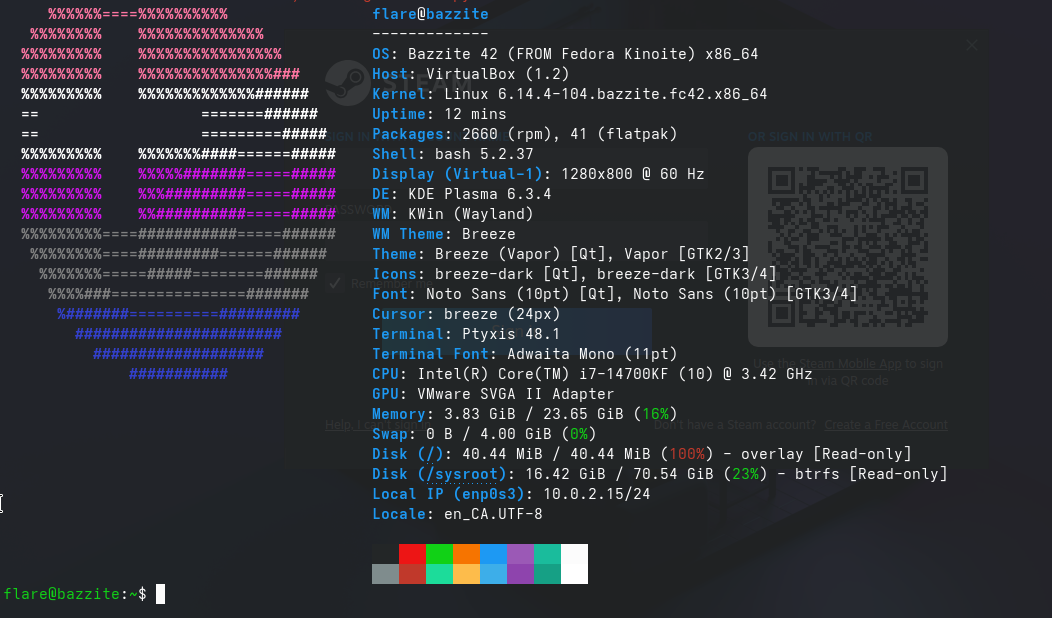
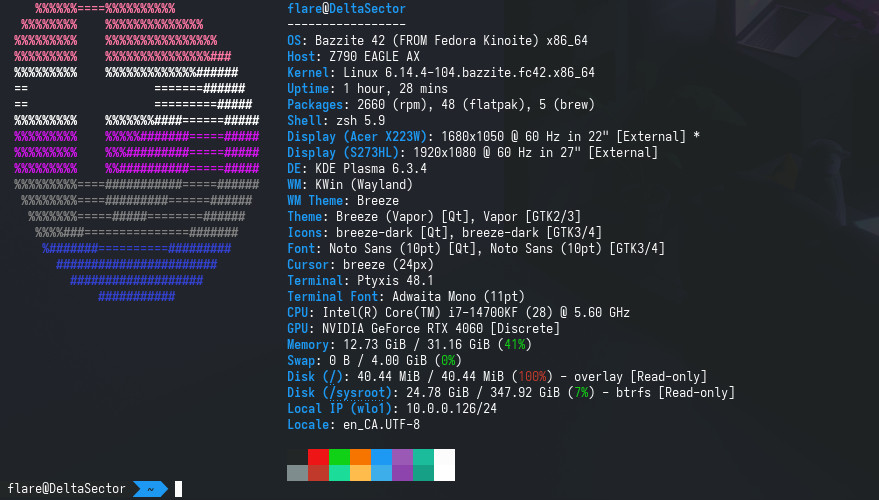
wip

Changed region(s): [[0.0, 0.0, 0.9215, 0.96], [0.0, 0.93, 0.215, 1.0]]

diff --git a/partials/comments.html b/partials/comments.html
@@ -1,0 +1,55 @@
+{% if page.meta.comments %}
+  <h2 id="__comments">{{ lang.t("meta.comments") }}</h2>
+  <!-- Insert generated snippet here -->
+<script src="https://giscus.app/client.js"
+        data-repo="flare-proto/flare-proto.github.io"
+        data-repo-id="R_kgDOPIj9dw"
+        data-category="Announcements"
+        data-category-id="DIC_kwDOPIj9d84Csqgm"
+        data-mapping="pathname"
+        data-strict="0"
+        data-reactions-enabled="1"
+        data-emit-metadata="0"
+        data-input-position="top"
+        data-theme="preferred_color_scheme"
+        data-lang="en"
+        data-loading="lazy"
+        crossorigin="anonymous"
+        async>
+</script>
+  <!-- Synchronize Giscus theme with palette -->
+  <script>
+    var giscus = document.querySelector("script[src*=giscus]")
+
+    // Set palette on initial load
+    var palette = __md_get("__palette")
+    if (palette && typeof palette.color === "object") {
+      var theme = palette.color.scheme === "slate"
+        ? "transparent_dark"
+        : "light"
+
+      // Instruct Giscus to set theme
+      giscus.setAttribute("data-theme", theme) 
+    }
+
+    // Register event handlers after documented loaded
+    document.addEventListener("DOMContentLoaded", function() {
+      var ref = document.querySelector("[data-md-component=palette]")
+      ref.addEventListener("change", function() {
+        var palette = __md_get("__palette")
+        if (palette && typeof palette.color === "object") {
+          var theme = palette.color.scheme === "slate"
+            ? "transparent_dark"
+            : "light"
+
+          // Instruct Giscus to change theme
+          var frame = document.querySelector(".giscus-frame")
+          frame.contentWindow.postMessage(
+            { giscus: { setConfig: { theme } } },
+            "https://giscus.app"
+          )
+        }
+      })
+    })
+  </script>
+{% endif %}

diff --git a/docs/blog/posts/Linux/02Move.md b/docs/blog/posts/Linux/02Move.md
@@ -5,6 +5,7 @@ categories:
 tags:
     - de-microsofting
     - Linux
+comments: true
 ---
 # Moving To Linux - Phase 1
 Distro: Bazzite
@@ -72,3 +73,11 @@ mount point: /
     mount point: /var/home
         format:      btrfs (subvolume)
     ```
+## Post Install
+![alt text](hyfetch.png)
+
+|   Device   | Software |
+| ---------- | -------- |
+| G502 Mouse | piper    |
+| Stream deck| OpenDeck |
+
